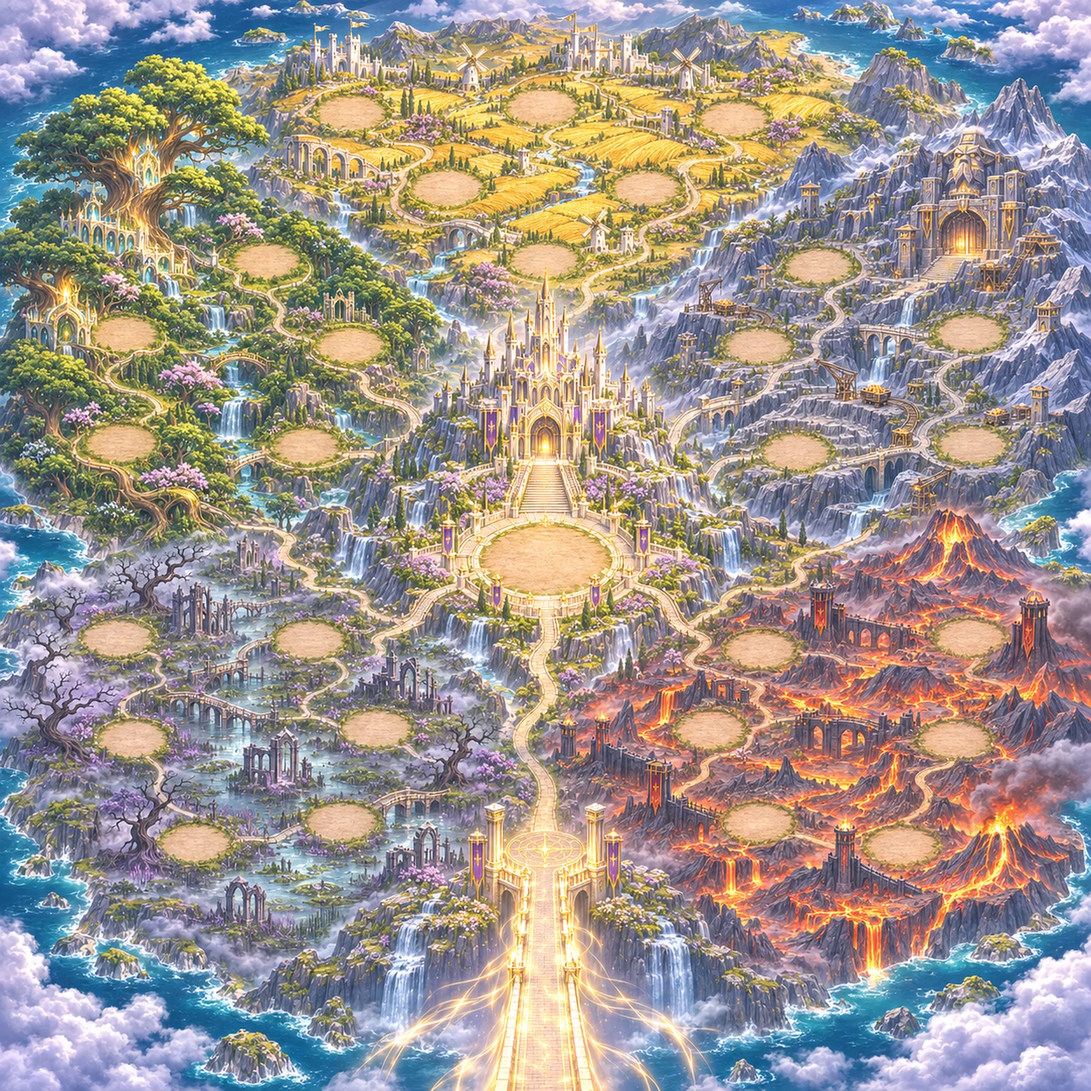
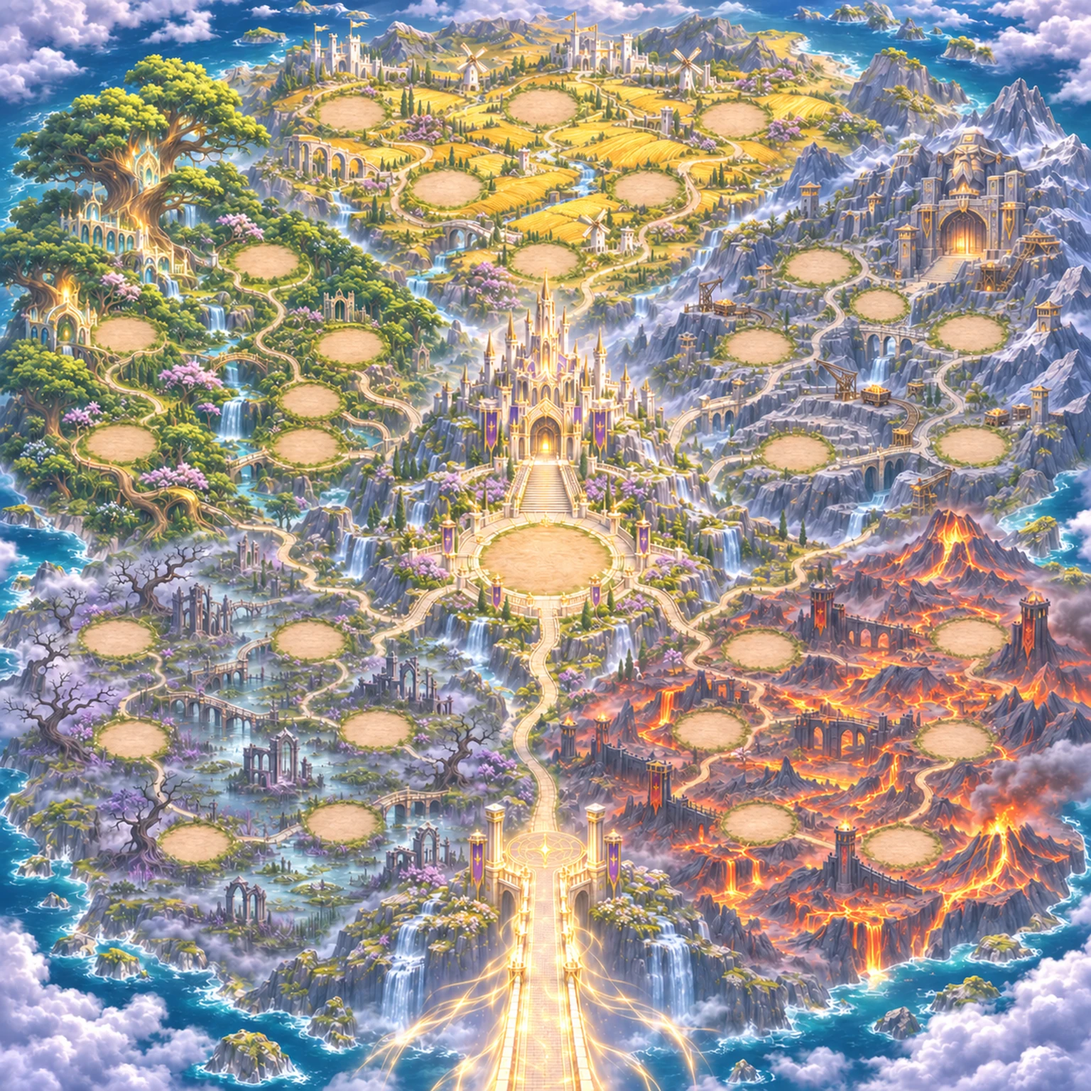
5막: 빈 터 31곳으로 다시 그린 대륙 지도에 영지 자리 맞춤
Claude-Session: https://claude.ai/code/session_011R5moejZv4hBtQenhMcv7F

Changed region(s): [[0.0, 0.0, 1.0, 1.0], [0.375, 0.9375, 0.4062, 0.9688]]

diff --git a/lib/core/rules/erbard_rules.dart b/lib/core/rules/erbard_rules.dart
@@ -79,44 +79,44 @@ abstract final class ErbardRules {
   ];
   static ProvinceInfo province(Province p) => provinces[p.index];
 
-  /// 영지 30 + 왕성 (지도 빈 터 29곳 · 그림에 없는 2곳은 숲의 나무 성 · 산맥 큰 성문 자리에)
+  /// 영지 30 + 왕성 (지도 빈 터 31곳 그대로, 안쪽 3곳은 왕성에 가까운 쪽)
   static const List<EstateInfo> estates = [
-    EstateInfo('royal', '에르바르드 왕성', null, true, 1531, 1568, npcStart: true),
+    EstateInfo('royal', '에르바르드 왕성', null, true, 1538, 1568, npcStart: true),
     // 솔레안 평원 (빛)
-    EstateInfo('sol_lily', '백합 들판 성', Province.light, false, 2043, 331),
-    EstateInfo('sol_bell', '종루 마을', Province.light, false, 1499, 294),
-    EstateInfo('sol_pilgrim', '순례자 다리', Province.light, false, 1024, 314),
-    EstateInfo('sol_dawn', '새벽 성채', Province.light, true, 1225, 527),
-    EstateInfo('sol_silver', '은방패 요새', Province.light, true, 1813, 527, npcStart: true),
-    EstateInfo('sol_sun', '햇살 망루', Province.light, true, 1529, 730),
+    EstateInfo('sol_lily', '백합 들판 성', Province.light, false, 2063, 331),
+    EstateInfo('sol_bell', '종루 마을', Province.light, false, 1507, 299),
+    EstateInfo('sol_pilgrim', '순례자 다리', Province.light, false, 992, 314),
+    EstateInfo('sol_dawn', '새벽 성채', Province.light, true, 1254, 527),
+    EstateInfo('sol_silver', '은방패 요새', Province.light, true, 1818, 527, npcStart: true),
+    EstateInfo('sol_sun', '햇살 망루', Province.light, true, 1534, 730),
     // 도르마크 산맥 (금속)
-    EstateInfo('dor_wind', '쇠바람 고개', Province.metal, false, 2715, 645),
-    EstateInfo('dor_forge', '용광로 마을', Province.metal, false, 2731, 936),
-    EstateInfo('dor_crystal', '수정 동굴', Province.metal, false, 2739, 1252),
-    EstateInfo('dor_hammer', '망치봉 요새', Province.metal, true, 2313, 747),
+    EstateInfo('dor_wind', '쇠바람 고개', Province.metal, false, 2474, 857),
+    EstateInfo('dor_forge', '용광로 마을', Province.metal, false, 2727, 936),
+    EstateInfo('dor_crystal', '수정 동굴', Province.metal, false, 2734, 1252),
+    EstateInfo('dor_hammer', '망치봉 요새', Province.metal, true, 2298, 747),
     EstateInfo('dor_deep', '깊은 갱도 성', Province.metal, true, 2134, 973),
-    EstateInfo('dor_bronze', '청동문 관문', Province.metal, true, 2246, 1271, npcStart: true),
+    EstateInfo('dor_bronze', '청동문 관문', Province.metal, true, 2234, 1271, npcStart: true),
     // 실바렌 숲 (대지)
-    EstateInfo('sil_deer', '사슴 샘', Province.earth, false, 420, 615),
-    EstateInfo('sil_mushroom', '버섯 골짜기', Province.earth, false, 343, 931),
+    EstateInfo('sil_deer', '사슴 샘', Province.earth, false, 740, 735),
+    EstateInfo('sil_mushroom', '버섯 골짜기', Province.earth, false, 360, 936),
     EstateInfo('sil_leaf', '잎사귀 망루', Province.earth, false, 343, 1244),
-    EstateInfo('sil_moss', '이끼 성벽', Province.earth, true, 735, 730),
-    EstateInfo('sil_vine', '덩굴 다리', Province.earth, true, 990, 968, npcStart: true),
-    EstateInfo('sil_throne', '고목 왕좌', Province.earth, true, 862, 1254),
+    EstateInfo('sil_moss', '이끼 성벽', Province.earth, true, 980, 970),
+    EstateInfo('sil_vine', '덩굴 다리', Province.earth, true, 870, 1127, npcStart: true),
+    EstateInfo('sil_throne', '고목 왕좌', Province.earth, true, 857, 1257),
     // 모르테인 늪 (어둠)
-    EstateInfo('mor_ferry', '망자의 나루', Province.dark, false, 328, 1796),
+    EstateInfo('mor_ferry', '망자의 나루', Province.dark, false, 326, 1796),
     EstateInfo('mor_mill', '검은 물레방아', Province.dark, false, 372, 2080),
     EstateInfo('mor_grave', '안개 묘지', Province.dark, false, 551, 2374),
     EstateInfo('mor_sunken', '가라앉은 성', Province.dark, true, 872, 1801),
     EstateInfo('mor_raven', '까마귀 탑', Province.dark, true, 1058, 2050, npcStart: true),
-    EstateInfo('mor_abbey', '등불 꺼진 수도원', Province.dark, true, 960, 2313),
+    EstateInfo('mor_abbey', '등불 꺼진 수도원', Province.dark, true, 968, 2313),
     // 이그나르 화산 (불)
-    EstateInfo('ign_beacon', '붉은 봉화대', Province.fire, false, 2719, 1793),
-    EstateInfo('ign_bridge', '용암 다리', Province.fire, false, 2670, 2087),
-    EstateInfo('ign_forge', '잿불 대장간', Province.fire, false, 2548, 2376),
-    EstateInfo('ign_temple', '불꽃 신전', Province.fire, true, 2131, 1818),
-    EstateInfo('ign_gate', '흑요석 성문', Province.fire, true, 2009, 2041, npcStart: true),
-    EstateInfo('ign_nest', '용의 둥지 요새', Province.fire, true, 2131, 2303),
+    EstateInfo('ign_beacon', '붉은 봉화대', Province.fire, false, 2727, 1793),
+    EstateInfo('ign_bridge', '용암 다리', Province.fire, false, 2680, 2082),
+    EstateInfo('ign_forge', '잿불 대장간', Province.fire, false, 2538, 2376),
+    EstateInfo('ign_temple', '불꽃 신전', Province.fire, true, 2139, 1823),
+    EstateInfo('ign_gate', '흑요석 성문', Province.fire, true, 1999, 2058, npcStart: true),
+    EstateInfo('ign_nest', '용의 둥지 요새', Province.fire, true, 2136, 2313),
   ];
 
   static EstateInfo? estate(String id) => estates.where((e) => e.id == id).firstOrNull;
